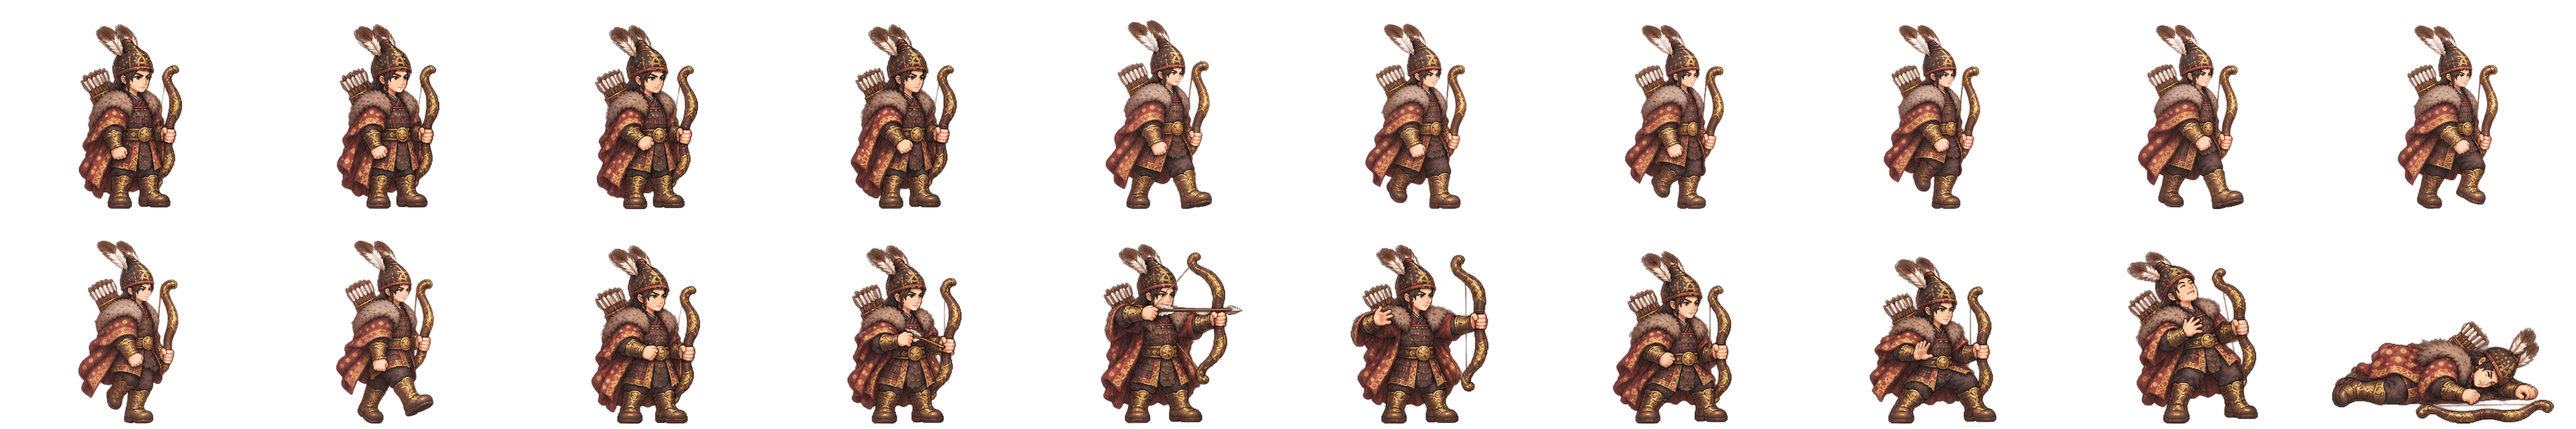
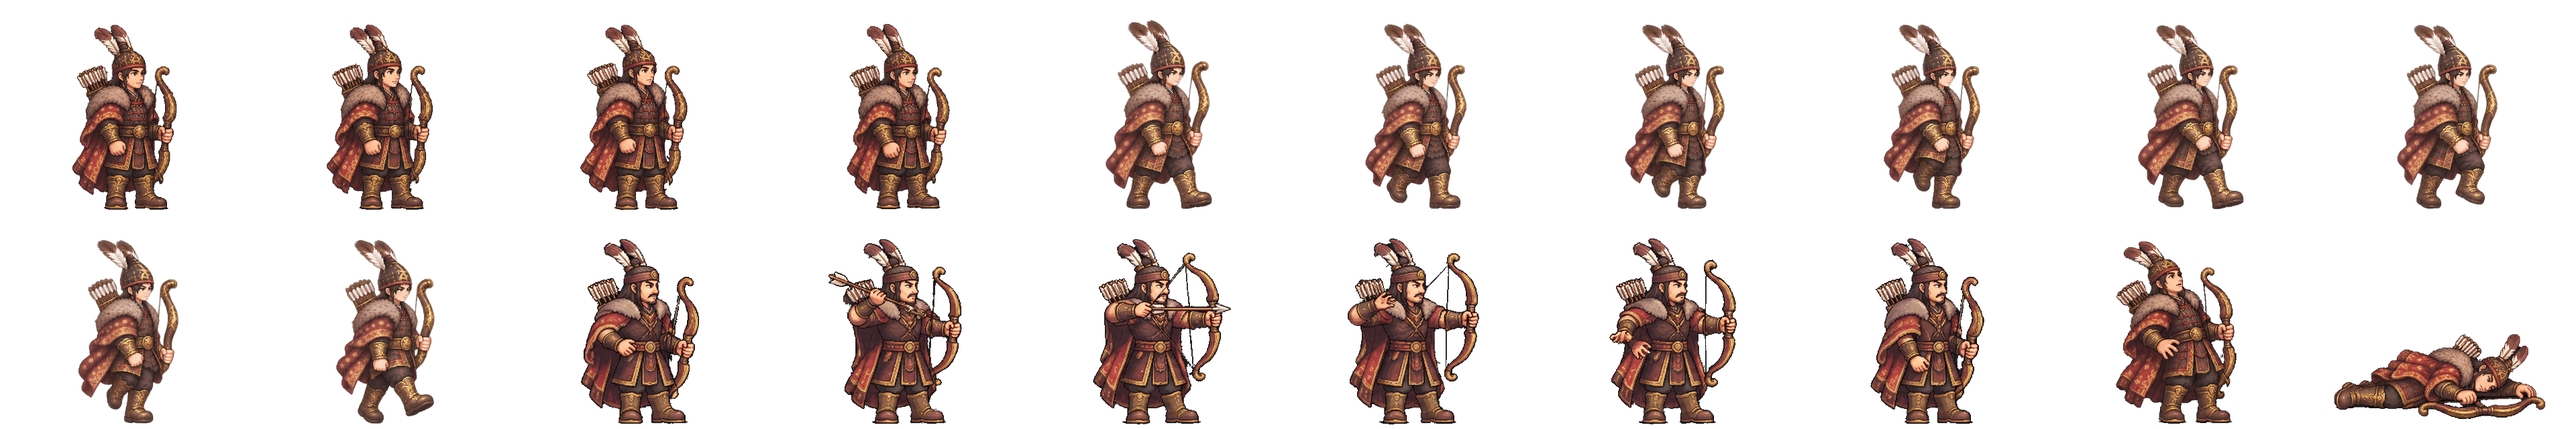
확대 고해상도 2배 띠: 우선 장수 34명 끝 (다나·단궁·매눈·물새 · 주몽은 새 공격 칸으로 다시 구움)
시험: 2배 띠 34개 모두 sha·크기·발 줄·배율(1.3 이하)·HERO_HD_SHEETS 를 hero-hd2.json 과 대조 · 2배 띠 없는 장수는 받지 않음.
옛 tools/sprite-kit/hero-hd-jumong.json 은 옛 판 기록으로만 남음.

Claude-Session: https://claude.ai/code/session_01TRiuN7s6aDfSnaHxrkctmU

diff --git a/tests/raid-hd.test.ts b/tests/raid-hd.test.ts
@@ -35,8 +35,8 @@ test('53-A actual CSS content controls backing, low tier uses DPR1, pointer logi
   assert.equal(wantsHeroHd(1.3), false); assert.equal(wantsHeroHd(1.3001), true)
   setHeroArt('jumong', 'aw1-jumong')
   assert.deepEqual(heroHdFiles(1), []); assert.deepEqual(heroHdFiles(1.8), ['anim-px/gen-jumong_hd.png', 'anim-px/gen-aw1-jumong_hd.png'], '11-22: 각성 주몽도 2배 띠(bake-hero-hd2)')
-  setHeroArt('base-w-102-garak-dana')
-  assert.deepEqual(heroHdFiles(4), [], 'unqualified Dana source cannot masquerade asHD')
+  setHeroArt('base-w-13-young-archer')
+  assert.deepEqual(heroHdFiles(4), [], 'a hero without a baked 2x strip never asks for one (11-22: Dana now has one)')
 })
 test('53-A density cache preserves logical size, folds wideHD, prewarms white without getImageData', () => {
   const old = globalThis.document, made: { width: number; height: number; draws: number }[] = []
@@ -63,12 +63,18 @@ test('53-A ending overlay also restores backing transform while using logical di
 test('53-A shipped nativeHD itself fits4096, and folded frame18 uses row1 without changing20-frame order', () => {
   const path = 'anim-px/gen-jumong_hd.png', sheet = HERO_HD_SHEETS[path]!, draws: unknown[][] = []
   const png = readFileSync(new URL('../public/realm/anim-px/gen-jumong_hd.png', import.meta.url))
-  const meta = JSON.parse(readFileSync(new URL('../tools/sprite-kit/hero-hd-jumong.json', import.meta.url), 'utf8'))
+  // 11-22: 주몽 2배 띠도 bake-hero-hd2 로 다시 구움(새 공격 칸) · 2배 띠 모두의 원본·배율·sha 는 tools/sprite-kit/hero-hd2.json
+  const reg = JSON.parse(readFileSync(new URL('../tools/sprite-kit/hero-hd2.json', import.meta.url), 'utf8')) as Record<string, { cell: [number, number]; cols: number; feet: number; scale: Record<string, number>; sha256: string }>
+  assert.ok(Object.keys(reg).length >= 30 && 'jumong' in reg)
+  for (const [key, meta] of Object.entries(reg)) {
+    const file = readFileSync(new URL(`../public/realm/anim-px/gen-${key}_hd.png`, import.meta.url))
+    assert.equal(createHash('sha256').update(file).digest('hex'), meta.sha256, key)
+    assert.equal(file.readUInt32BE(16), meta.cell[0] * meta.cols, key); assert.equal(file.readUInt32BE(20), meta.cell[1] * Math.ceil(20 / meta.cols), key)
+    assert.ok(file.readUInt32BE(16) <= 4096 && meta.cell[1] === 320 && meta.feet >= 300 && meta.feet <= 320, key)
+    assert.ok(Object.values(meta.scale).every(v => v <= 1.3), `${key}: hi-res sources are reduced or only mildly enlarged, never the 160 strip`)
+    assert.deepEqual(HERO_HD_SHEETS[`anim-px/gen-${key}_hd.png`], { cell: meta.cell, cols: meta.cols }, key)
+  }
   assert.equal(png.readUInt32BE(16), 3840); assert.equal(png.readUInt32BE(20), 640)
-  assert.equal(createHash('sha256').update(png).digest('hex'), meta.sha256)
-  assert.ok(meta.rawToHdScale <= 1 && meta.rawToHdScale * meta.walkFactor <= 1, 'native pixels are reduced, never upscaled')
-  assert.equal(meta.feet, 312); assert.equal(meta.frames.length, 20)
-  assert.ok(meta.frames.every((f: { frame: number; feet: number }, i: number) => f.frame === i && f.feet === 312))
   const ctx = { canvas: { width: 2240, height: 1440 }, translate() {}, scale() {}, drawImage: (...a: unknown[]) => draws.push(a), imageSmoothingEnabled: true } as unknown as CanvasRenderingContext2D
   sprite(ctx, new Map([[path, { width: sheet.cell[0] * sheet.cols, height: 640, complete: true } as HTMLImageElement]]), path, 1, 1, 94, 18, 1, false, 4)
   assert.deepEqual(draws[0]!.slice(1, 5), [3072, 320, 384, 320])

diff --git a/src/raid/hero-hd.ts b/src/raid/hero-hd.ts
@@ -1,5 +1,10 @@
 /** Native master rebake only. Missing entries deliberately retain their approved base assets. */
 export const HERO_HD: Readonly<Record<string, string>> = {
+  'anim-px/gen-mulsae.png': 'anim-px/gen-mulsae_hd.png',
+  'anim-px/gen-maenun.png': 'anim-px/gen-maenun_hd.png',
+  'anim-px/gen-jumong.png': 'anim-px/gen-jumong_hd.png',
+  'anim-px/gen-dangung.png': 'anim-px/gen-dangung_hd.png',
+  'anim-px/gen-base-w-102-garak-dana.png': 'anim-px/gen-base-w-102-garak-dana_hd.png',
   'anim-px/gen-aw1-hogong.png': 'anim-px/gen-aw1-hogong_hd.png',
   'anim-px/gen-hogong.png': 'anim-px/gen-hogong_hd.png',
   'anim-px/gen-aw1-gomok.png': 'anim-px/gen-aw1-gomok_hd.png',
@@ -29,11 +34,15 @@ export const HERO_HD: Readonly<Record<string, string>> = {
   'anim-px/gen-aw1-gamsil.png': 'anim-px/gen-aw1-gamsil_hd.png',
   'anim-px/gen-aw1-haebi.png': 'anim-px/gen-aw1-haebi_hd.png',
   'anim-px/gen-haebi.png': 'anim-px/gen-haebi_hd.png',
-  'anim-px/gen-jumong.png': 'anim-px/gen-jumong_hd.png',
 }
 
 /** NativeHD atlas stays within4096 before upload: frame order is row-major,20 frames. */
 export const HERO_HD_SHEETS: Readonly<Record<string, { cell: readonly [number, number]; cols: number }>> = {
+  'anim-px/gen-mulsae_hd.png': { cell: [432, 320], cols: 9 },
+  'anim-px/gen-maenun_hd.png': { cell: [384, 320], cols: 10 },
+  'anim-px/gen-jumong_hd.png': { cell: [384, 320], cols: 10 },
+  'anim-px/gen-dangung_hd.png': { cell: [384, 320], cols: 10 },
+  'anim-px/gen-base-w-102-garak-dana_hd.png': { cell: [432, 320], cols: 9 },
   'anim-px/gen-aw1-hogong_hd.png': { cell: [400, 320], cols: 10 },
   'anim-px/gen-hogong_hd.png': { cell: [432, 320], cols: 9 },
   'anim-px/gen-aw1-gomok_hd.png': { cell: [400, 320], cols: 10 },
@@ -63,5 +72,4 @@ export const HERO_HD_SHEETS: Readonly<Record<string, { cell: readonly [number, n
   'anim-px/gen-aw1-gamsil_hd.png': { cell: [368, 320], cols: 11 },
   'anim-px/gen-aw1-haebi_hd.png': { cell: [448, 320], cols: 9 },
   'anim-px/gen-haebi_hd.png': { cell: [400, 320], cols: 10 },
-  'anim-px/gen-jumong_hd.png': { cell: [384, 320], cols: 10 },
 }

diff --git a/tools/sprite-kit/bake-hero-hd2.py b/tools/sprite-kit/bake-hero-hd2.py
@@ -248,6 +248,8 @@ def main():
             dst = os.path.join(PX, f'gen-{key}_hd.png')
             atlas.save(dst, optimize=True)
             meta['bytes'] = os.path.getsize(dst)
+            import hashlib
+            meta['sha256'] = hashlib.sha256(open(dst, 'rb').read()).hexdigest()
             register(key, meta)
         print(f"{key}: 칸 {meta['cell']} · 열 {meta['cols']} · 배율 걷기 {meta['scale']['walk']} 공격 {meta['scale']['attack']} 보충 {meta['scale']['hdx']}"
               + f" · 칸 밖 {bad or '없음'}" + (' · 씀' if write else '') + f' · {pv}')
